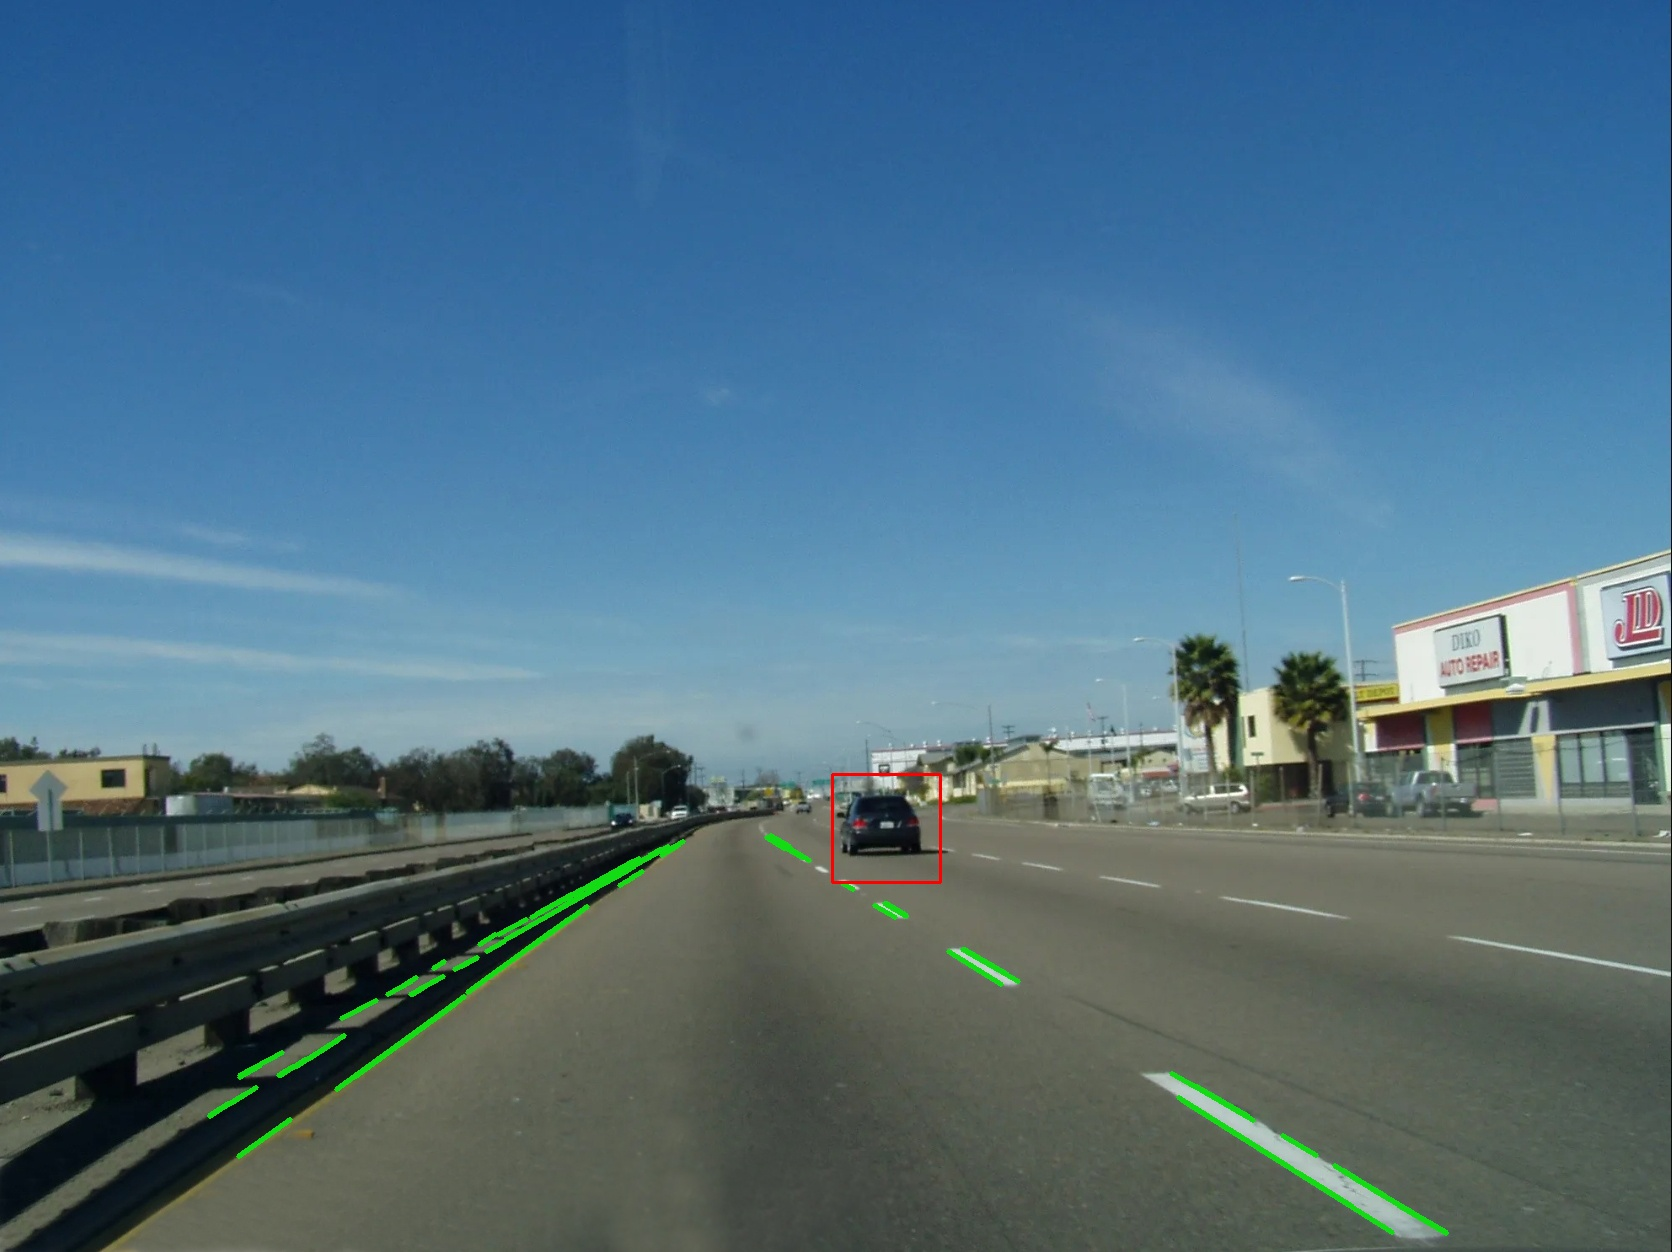
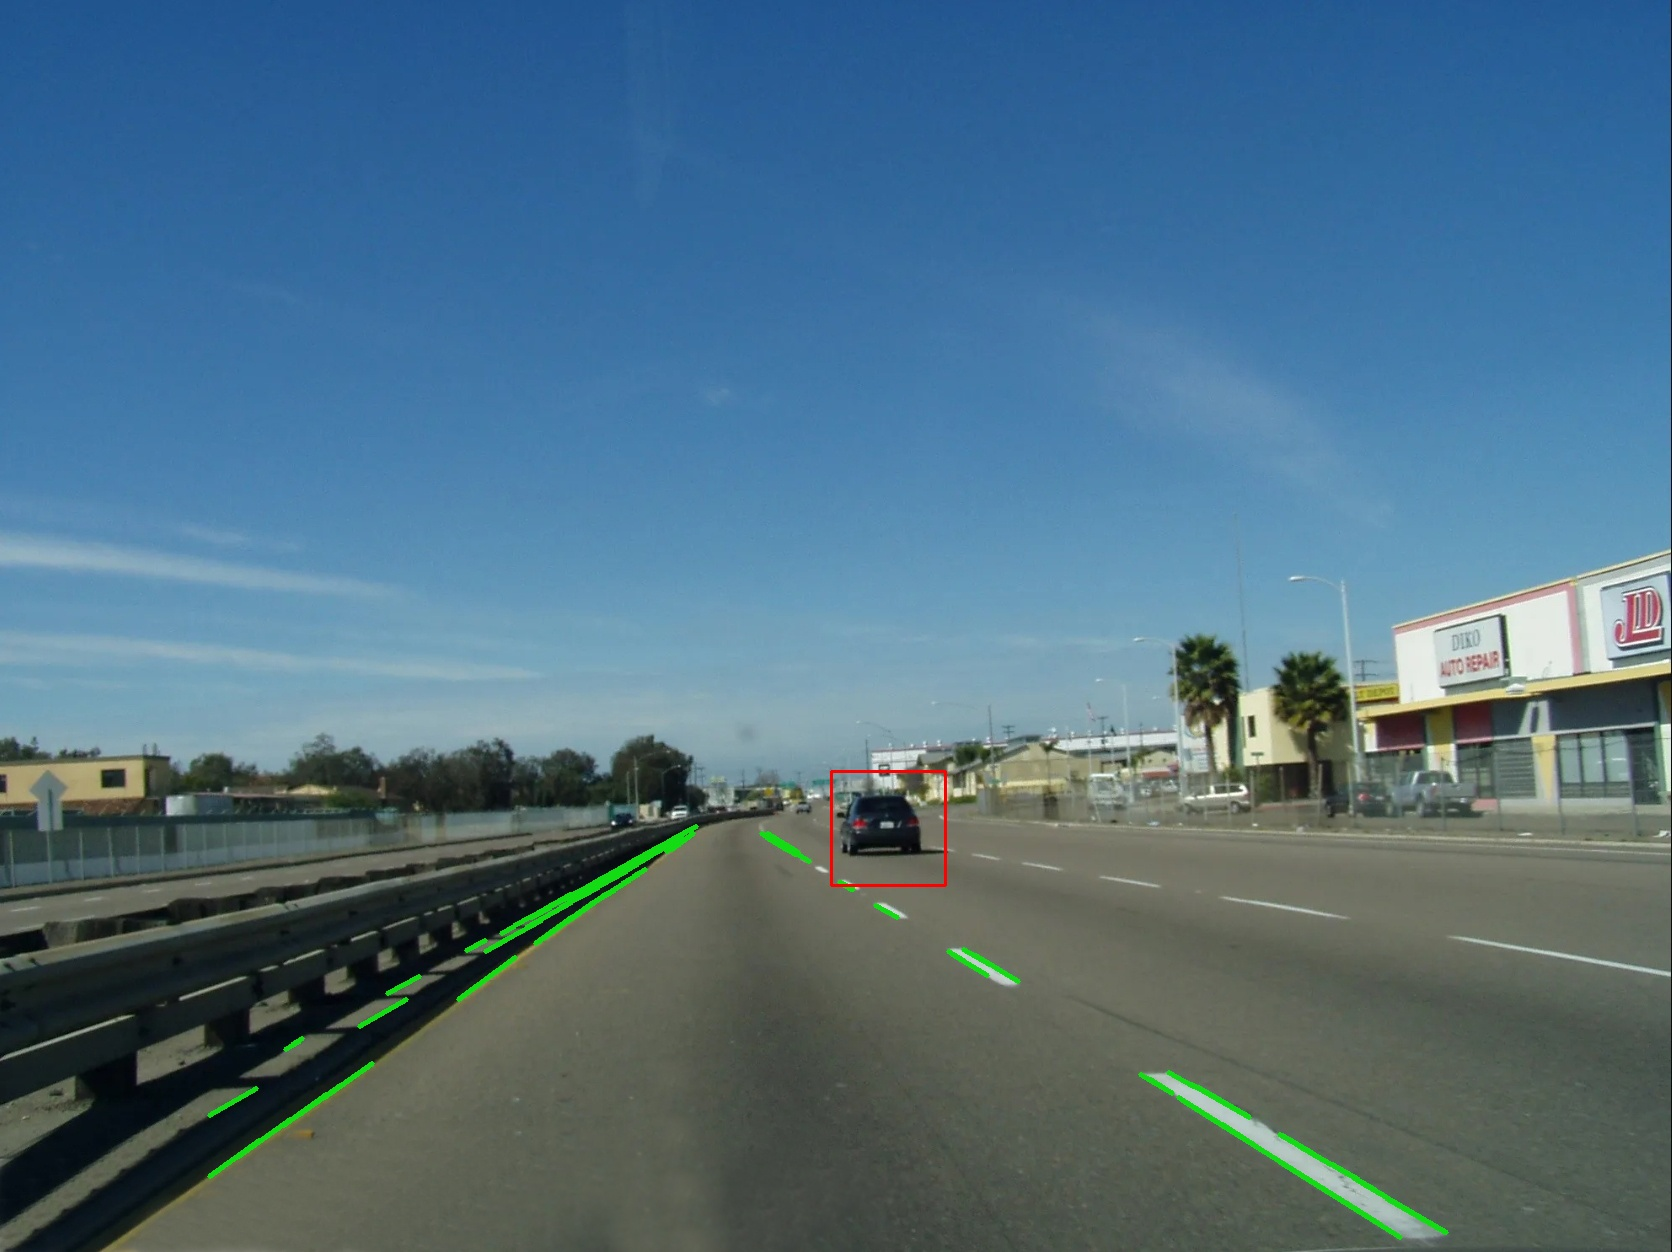
Add files via upload

diff --git a/FrameOnly.py b/FrameOnly.py
@@ -6,7 +6,7 @@ guassian_window = 5
 max_slope = 0.50
 edge_low = 50
 edge_high = 150
-mask_height = 1.5
+mask_height = 1.53
 
 #line detection parameters
 line_detection_rho = 15
